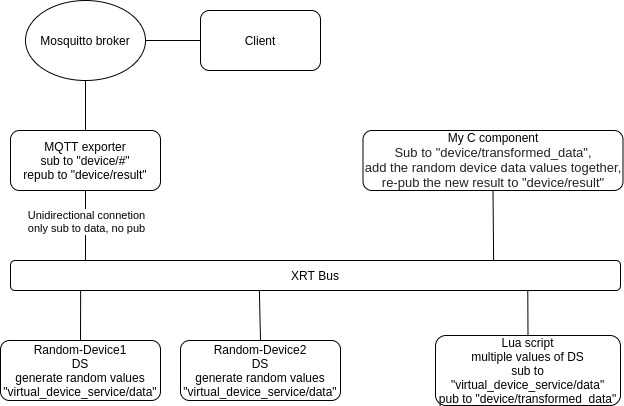
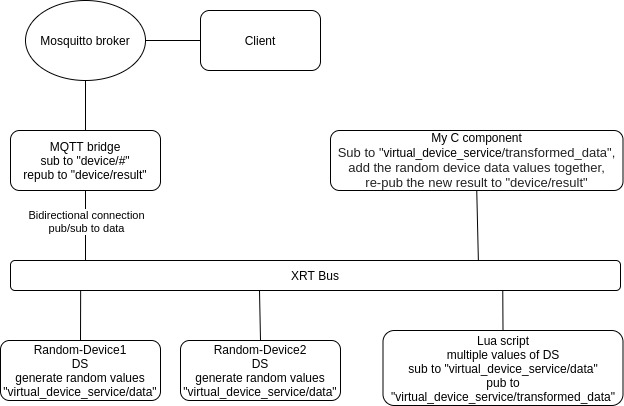
Readme and illustration update

diff --git a/SimpleXRTComponentExample/docs/README.md b/SimpleXRTComponentExample/docs/README.md
@@ -1,7 +1,7 @@
 # Simple XRT Component Example
 
-This example uses the Virtual Device Service to generate some data with the help of two devices created from the same profile. The data is published under "virtual_device_service/data" topic to the bus.
-A Lua component is attached which subscribes to both data streams and transforms the data (multiplies each data value by 10) before re-publishing the new values under the topic "device/transformed_data". There is also a C component attached which subscribes to the topic "device/transformed_data" and then adds the two data values together before re-publishing the final result back to the bus under "device/result" topic. Lastly, an MQTT exporter component - which subscribes to the final result published on the bus by the C component - re-publishes it to a Mosquito topic so that the data can be accessed by any client subscribed to the MQTT topic "device/result".
+This example uses the Virtual Device Service to generate some random data (Int8). The data is published under "virtual_device_service/data" topic to the bus.
+A Lua component is attached which subscribes to both data streams and transforms the data (multiplies each data value by 10) before re-publishing the new values under the topic "virtual_device_service/transformed_data". There is also a C component attached which subscribes to the topic "virtual_device_service/transformed_data" and then adds the two random values together before re-publishing the final result back to the XRT bus under "device/result" topic. Lastly, an MQTT bridge component - which subscribes to the final result published on the bus by the C component - re-publishes it to a Mosquitto topic so that the data can be accessed by any client subscribed to the MQTT topic "device/result".
 
 Below an illustration of the scenario described above:
 
@@ -12,3 +12,24 @@ Below an illustration of the scenario described above:
     * iotech-iot-dev     1.2.1    amd64    IOT C Framework
     * iotech-thrift-dev  1.0.1    amd64    Embedded Thrift C Version
     * iotech-xrt-dev     1.1.1    amd64    XRT C RealTime Framework
+
+## Build
+Open a terminal window in the directory containing the example. Run
+
+. ./envs.sh
+
+to set up the environment, then
+
+make
+
+to build the example component.
+
+## Run
+A configuration is provided which sets up two devices generating random values. Run
+
+xrt config
+
+to start the XRT instance with the example component. The logs should indicate a value being published every two/four seconds.
+
+
+## C component description
